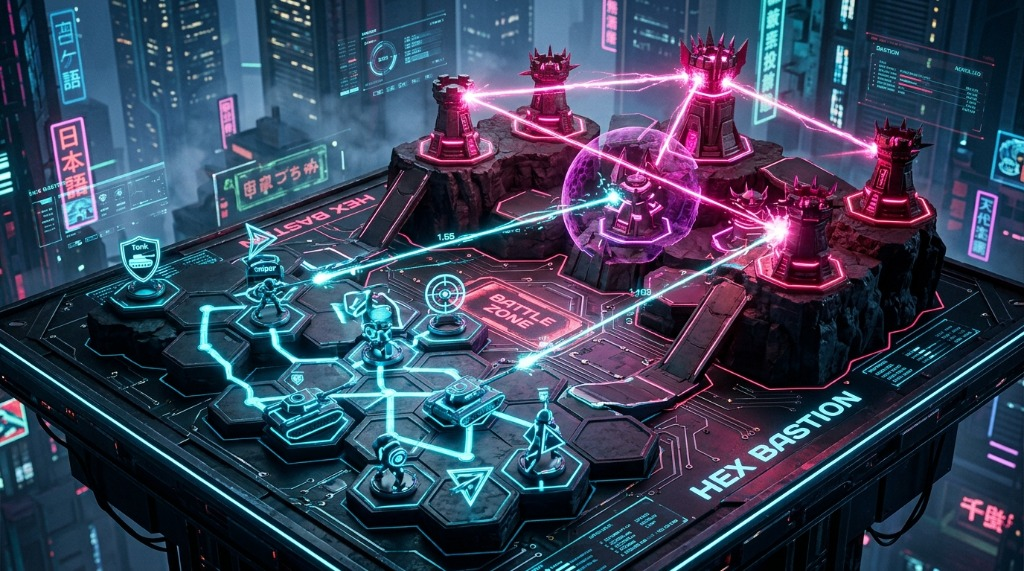
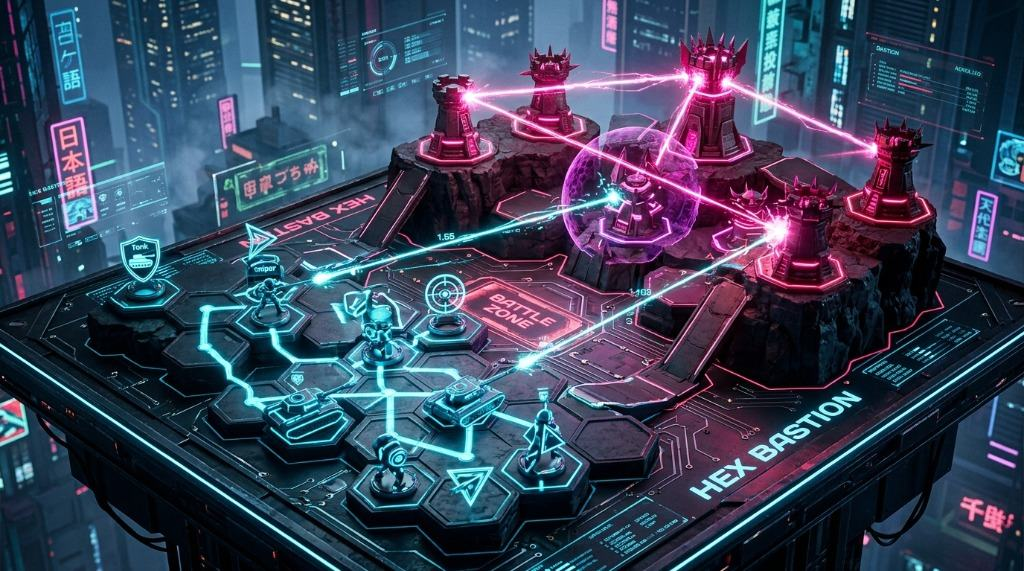
Add README.md, SRI attributes to CDN scripts, compress images, and secure firebase.json ignore rules

diff --git a/index.html b/index.html
@@ -9,14 +9,16 @@
   <meta property="og:title" content="HEX BASTION - 将棋式リアルタイム反転防衛戦">
   <meta property="og:description" content="六角盤面で繰り広げるリアルタイム戦略バトル！挟んでオセロ反転、コアを撃ち抜け！">
   <meta property="og:image" content="icon.jpg">
+  <!-- Google AdSense Ownership Verification -->
+  <script async src="https://pagead2.googlesyndication.com/pagead/js/adsbygoogle.js?client=ca-pub-5012440476019514" crossorigin="anonymous"></script>
   <link rel="stylesheet" href="style.css">
   <link rel="preconnect" href="https://fonts.googleapis.com">
   <link rel="preconnect" href="https://fonts.gstatic.com" crossorigin>
   <link href="https://fonts.googleapis.com/css2?family=Orbitron:wght@500;700;900&family=Rajdhani:wght@600;700&display=swap" rel="stylesheet">
   <!-- PeerJS for Free Serverless WebRTC PVP -->
-  <script src="https://unpkg.com/peerjs@1.5.4/dist/peerjs.min.js"></script>
+  <script src="https://unpkg.com/peerjs@1.5.4/dist/peerjs.min.js" integrity="sha384-nlUQ8ZqCbvStErob+biJNzSgltf6urV3VGqhfIfzhmg9RXmpeRm76ELw0pYnKlTR" crossorigin="anonymous"></script>
   <!-- Three.js for 3D Cyber-Chess Board & Pieces -->
-  <script src="https://cdnjs.cloudflare.com/ajax/libs/three.js/r128/three.min.js"></script>
+  <script src="https://cdnjs.cloudflare.com/ajax/libs/three.js/r128/three.min.js" integrity="sha512-dLxUelApnYxpLt6K2iomGngnHO83iUvZytA3YjDUCjT0HDOHKXnVYdf3hU4JjM8uEhxf9nD1/ey98U3t2vZ0qQ==" crossorigin="anonymous"></script>
 </head>
 <body>
   <div id="game-container">
@@ -494,8 +496,12 @@
     <ins class="adsbygoogle"
          style="display:block; width:100%; max-height:90px;"
          data-ad-client="ca-pub-5012440476019514"
-         data-ad-format="horizontal"
+         data-ad-slot="6530054130"
+         data-ad-format="auto"
          data-full-width-responsive="true"></ins>
+    <script>
+      try { (adsbygoogle = window.adsbygoogle || []).push({}); } catch (e) {}
+    </script>
     <div style="display: flex; align-items: center; justify-content: space-between; width: 100%; font-size: 0.72rem; opacity: 0.85;">
       <span style="letter-spacing: 1.5px; font-weight: 600; color: #38bdf8;">S P O N S O R E D</span>
       <span style="color: #94a3b8;">HEX BASTION 公式</span>

diff --git a/README.md b/README.md
@@ -1,0 +1,105 @@
+# HEX BASTION（ヘックス・バスティオン）
+### 将棋式リアルタイム反転防衛戦 (Cyber Tactical Chess & Reversal Game)
+
+六角形（ヘックス）グリッド上で自軍の戦術タワーユニットを指揮し、相手本拠地コアの撃破を目指すリアルタイム戦術シミュレーションゲームです。
+将棋のような位置取りと前進攻防、オセロのような「挟み撃ち反転（リバーサル・ハッキング）」、そして刻一刻と変化するリアルタイム射撃戦が融合しています。
+
+---
+
+## 🌐 公開URL (Live Sites)
+
+- **本番環境 (Firebase Hosting)**:  
+  [https://hex-bastion-app.web.app/](https://hex-bastion-app.web.app/)  
+  *(Firebase Project: `chronos-app-d149d` / Hosting Target: `hex-bastion-app`)*
+- **予備ドメイン (Firebase App)**:  
+  [https://hex-bastion-app.firebaseapp.com/](https://hex-bastion-app.firebaseapp.com/)
+- **ミラー環境 (GitHub Pages)**:  
+  [https://yukiyana-git.github.io/hex-bastion/](https://yukiyana-git.github.io/hex-bastion/)
+
+---
+
+## 🎮 ゲーム概要とルール
+
+### 1. 勝利条件
+- **敵コアの破壊**: 敵本拠地コア（HP: 20）を射程内に捉え、ビームレーザーでHPをゼロにすれば勝利。
+- **タイムアップ判定**: 制限時間終了時にコア残存HPが多い陣営の勝利。
+
+### 2. 核心システム: オセロ反転（リバーサル・ハッキング）
+- 直線上で **「味方 ―― 敵 ―― 味方」** と敵駒を挟み込むと、敵タワーが一瞬で自軍色に反転！
+- 反転したユニットは寝返って即座に敵コアや敵駒へ攻撃を開始します。
+- 駒が移動を完了した瞬間にも反転判定が走るため、敵背後へスライドして一発逆転を狙えます。
+
+### 3. 高台（CLIFF）の絶対優位性
+- マップ中央にそびえる高台に陣取ったユニットは、以下の強力な特性を獲得します:
+  1. **射程 +1**
+  2. **遮蔽物・障害物の完全無視**
+  3. **低地からの挟み撃ち反転を完全無効化**
+
+### 4. 駒（タワーユニット）全6種
+| 駒名 | 特徴 | 射程 | 移動 |
+| :--- | :--- | :---: | :---: |
+| **🏹 アロータワー** | 早撃ち・基本制圧型。機動性と射撃速度に優れる | 3 | 全方向1マス |
+| **💥 スプレッド** | 扇状近接型。正面3方向を同時射撃。防衛・封鎖に最適 | 1 | 全方向1マス |
+| **🎯 レールガン** | 長距離狙撃型。高台に据えると凶悪な超長距離砲台に | 5 | 全方向1マス |
+| **🛡 アイアンクラッド** | 重装甲型。挟み撃ちをシールドで1度防ぐ頑強な盾 | 2 | 前方3方向のみ |
+| **🌀 ディスラプター** | 妨害型。射線上の敵の向きをランダムに回転させ隊列を崩す | 3 | 全方向1マス |
+| **🪞 リフレクター** | 反射型。味方レーザーを60度屈折させ、死角から挟み撃ちを作る | 特殊 | 全方向1マス |
+
+### 5. 操作方法
+- **駒の選択**: 自軍ユニットをクリック
+- **駒の移動**: 移動可能マス（緑ヘックス 👣）をクリック
+- **駒の向き変更**: 選択中の駒を **左クリックで時計回り(↻)** / **右クリックで反時計回り(↺)**
+- **視点切り替え**: 上部HUDの `[🎥 視点切替]` ボタンで「立体3D視点」と「真上俯瞰(2.5D)視点」を瞬時に切り替え
+- **カメラ移動**: `W` / `A` / `S` / `D` キー（+ `Shift` で高速スクロール）
+- **ズーム**: マウスホイール回転
+
+---
+
+## 🛠 技術構成 (Tech Stack)
+
+- **フロントエンド / UI**:
+  - HTML5, CSS3 (Cyberpunk / Dark Slate Design System)
+  - Vanilla JavaScript (ES6+ Class Architecture)
+- **3Dグラフィックス & 描画**:
+  - [Three.js](https://threejs.org/) (r128) - 3Dヘックス立体盤面、プロシージャルタワー造形、レーザー、ダイナミックシャドウ
+  - HTML5 2D Canvas - 戦闘パーティクル、ダメージテキスト、クールダウンリングオーバーレイ
+- **リアルタイム通信 (PVP)**:
+  - [PeerJS](https://peerjs.com/) (1.5.4) - サーバーレスWebRTC P2P通信によるオンライン対戦 ＆ ランダムマッチメイキング
+- **オーディオ**:
+  - Web Audio API - 外部音声ファイル不要のプロシージャル・シンセサイザー音響（レーザー、反転、爆発、BGM）
+- **インフラ / ホスティング**:
+  - Firebase Hosting (プロジェクト: `chronos-app-d149d`)
+  - GitHub Pages
+
+---
+
+## 📂 プロジェクト構成
+
+```
+hex-bastion/
+├── README.md           # プロジェクト解説ドキュメント
+├── index.html          # ゲームメイン画面・UIモーダル・メタタグ
+├── style.css           # サイバースタイル・レスポンシブCSS
+├── game.js             # ゲームエンジン統合スクリプト（3D/ロジック/P2P/UI）
+├── icon.jpg            # ファビコン・アプリアイコン・ロゴ画像
+├── bg_3d_concept.jpg   # アリーナ背景テクスチャ
+├── ads.txt             # Google AdSense 認定配信者情報
+├── firebase.json       # Firebase Hosting デプロイ設定
+└── .firebaserc         # Firebase プロジェクト設定
+```
+
+---
+
+## 🚀 デプロイ手順
+
+### Firebase Hosting
+```bash
+# Firebase CLI ログイン
+firebase login
+
+# Hostingへの公開デプロイ
+firebase deploy --only hosting
+```
+
+### GitHub Pages
+`main` ブランチへのプッシュにより、GitHub Pages 側へも自動反映されます。
